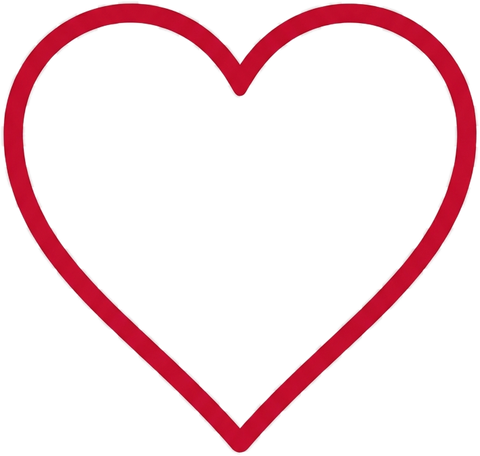
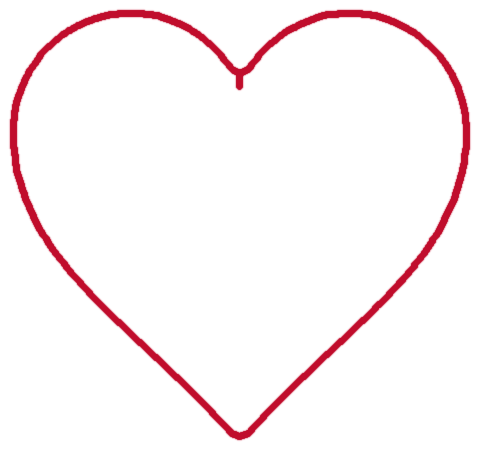
Add files via upload

Changed region(s): [[0.0, 0.0, 1.0, 1.0]]

diff --git a/index.html b/index.html
@@ -780,6 +780,16 @@ footer .brand{font-size:15px;letter-spacing:.42em}
 .hero-actives li.active-in{opacity:1;transform:none}
 @media(max-width:1000px){
   .hero-actives li{opacity:1;transform:none;transition:none}
+  /* (user request) centre the ingredient list on lite/mobile, bigger and
+     all-caps to match what desktop already gets (see the >=1001px
+     .keyact.flat.hero-actives rule above). The gold tick mark (::before)
+     switches from absolutely-positioned (which assumed left-aligned text)
+     to an inline mark ahead of the now-centred text, so it still reads as
+     "— INGREDIENT" rather than floating off to the left edge on its own. */
+  .keyact.flat.hero-actives{text-align:center}
+  .keyact.flat.hero-actives li{padding-left:0;font-size:clamp(14px,3.8vw,18px);text-transform:uppercase}
+  .keyact.flat.hero-actives li::before{content:"";position:static;display:inline-block;
+    width:9px;height:1px;margin:0 8px 2px 0;vertical-align:middle;background:var(--gold)}
 }
 /* gold keylines: thin animated connectors running from each active ingredient
    back to the tube's cap end, drawn in one by one as the visitor scrolls back UP
@@ -1135,6 +1145,36 @@ footer .brand{font-size:15px;letter-spacing:.42em}
 .mphoto::after{content:'';position:absolute;left:0;right:0;bottom:0;height:30%;background:linear-gradient(to top,rgba(0,0,0,.6),rgba(0,0,0,0));pointer-events:none}
 .mphoto .cap{position:absolute;left:clamp(14px,2vw,24px);bottom:clamp(12px,1.6vw,20px);color:#fff;font-size:12px;letter-spacing:.14em;text-transform:uppercase;font-weight:600;text-shadow:0 1px 4px rgba(0,0,0,.7);z-index:1}
 .mfacts{display:grid;grid-template-columns:repeat(4,1fr);gap:1px;background:rgba(196,153,48,.22);border:1px solid rgba(196,153,48,.22);margin-top:clamp(32px,4vw,50px)}
+
+/* (user request) Mānuka Honey section: the beehive photo runs full viewport
+   width (breaking out of .wrap the standard negative-margin way; body already
+   carries overflow-x:clip site-wide so this can't open a horizontal
+   scrollbar) and the 3 "pillar" copy cards float on top of it as a lightly
+   translucent, frosted row rather than sitting in normal flow underneath.
+   .honey-photo-wrap is a new, local positioning context (position:relative)
+   wrapping just this photo + its pillars -- NOT every .mphoto in #honey (the
+   East Cape coast photo further down keeps its original, unrelated layout
+   untouched, since it's outside this wrapper). The wrapper's own box stays at
+   the normal .wrap content width, so .pillars (left:0;right:0 within it)
+   reads at the same inset the rest of the page's copy does, while only the
+   photo itself bleeds edge to edge behind it. */
+.honey-photo-wrap{position:relative;margin-top:clamp(24px,3vw,36px)}
+.honey-photo-wrap .mphoto{margin-top:0;width:100vw;margin-left:calc(50% - 50vw);margin-right:calc(50% - 50vw);border-radius:0;height:clamp(560px,58vw,700px)}
+.honey-photo-wrap .mphoto img{height:100%;object-fit:cover}
+.honey-photo-wrap .mphoto::after{height:60%}
+/* (user request) lifted to mid-image (vertically centred rather than
+   bottom-anchored), spread into 3 separate floating cards (30px gap, so the
+   photo shows through between them, not just within them) rather than one
+   abutting hairline-divided row -- the divider background/border that made
+   sense for touching cells has no job once the cells are apart, so it's
+   dropped in favour of each card casting its own soft shadow. */
+/* #honey-prefixed (not just .honey-photo-wrap) so this beats .rv.in{transform:none}
+   (same 2-class specificity, but .rv.in sits later in the stylesheet and would
+   otherwise win on source order once the reveal animation finishes and adds
+   .in -- the ID bumps specificity instead of relying on being last). */
+#honey .honey-photo-wrap .pillars{position:absolute;left:0;right:0;top:50%;transform:translateY(-50%);z-index:2;gap:30px;background:transparent;border:none}
+.honey-photo-wrap .pillar{background:rgba(255,255,255,.42);backdrop-filter:blur(20px) saturate(180%);-webkit-backdrop-filter:blur(20px) saturate(180%);border-radius:3px;box-shadow:0 16px 40px rgba(0,0,0,.25)}
+.honey-photo-wrap .pillar:hover{background:rgba(255,255,255,.58)}
 .mfact{background:var(--ink);padding:clamp(28px,3.6vw,44px) clamp(16px,2.2vw,26px)}
 .mfact b{display:block;font-family:Arial,'Helvetica Neue',Helvetica,'Liberation Sans',sans-serif;font-size:clamp(24px,2.8vw,36px);color:#E8C468;line-height:1.1;letter-spacing:-.01em}
 .mfact h4{font-size:11px;letter-spacing:.14em;text-transform:uppercase;margin:14px 0 8px;font-weight:600;color:#fff}
@@ -1732,6 +1772,24 @@ footer{background:var(--paper);border-top:1px solid var(--line);padding:70px 0 4
   .hero-grid{order:2;transform:none;padding-top:0}
   .hero-lower .hero-grid{padding-left:var(--pad);padding-right:var(--pad)}
   .hero-pillars{order:3;flex:0 0 auto;max-width:none;grid-template-columns:1fr;gap:18px;margin:18px 0 0}
+  /* (user request) the 4 pillar icons (map/mitochondria/heart/water-drop) were
+     cropping off the screen edge on phones. Two things stack to cause it: the
+     icon's own scale(2) reveal transform (further up, shared with desktop)
+     doesn't grow its LAYOUT box, only what's painted -- fine on desktop where
+     the icon+text row sits well inside a wide column, but on a full-width
+     mobile row with the icon pinned to the card's outer edge (flex-start
+     default; icon is first in the markup for data-edge="l", and still
+     outermost after the data-edge="r" row-reverse), that doubled paint runs
+     straight off the viewport on its own. Narrowing the copy column and
+     centering the icon+text pair (instead of packing it to the card's edge)
+     claws back some of that margin, but not all of it -- closing the rest
+     without squeezing the text illegibly narrow means also dialing back how
+     far this one reveal scales on phones specifically: 1.5x instead of
+     desktop's 2x, still a clear "grows in" effect, just not one that needs
+     more room than a phone screen has. */
+  .hero-pillars .pillar{justify-content:center}
+  .hero-pillars .pillar-body{max-width:clamp(168px,54vw,205px)}
+  .hero-pillars .pillar-icon[data-edge].in{transform:scale(1.4)}
   .hero-grid,.prob-grid,.ritual-grid,.formgrid{grid-template-columns:1fr}
   .hero-grid{gap:24px}   /* single column: the wide desktop gap would waste height */
   .hmsg{font-size:clamp(14px,2.6vw,19px)}
@@ -1742,9 +1800,18 @@ footer{background:var(--paper);border-top:1px solid var(--line);padding:70px 0 4
   .hero-precede .precede-rest{font-size:clamp(16px,4vw,20px)}
   .hero-precede .precede-body{font-size:clamp(16px,4vw,20px)}
   .hero-precede .precede-solution{font-size:clamp(30px,9.8vw,42px)}
-  /* this one line has to fit without wrapping at every phone width down to 320px,
-     so it gets its own smaller, width-tied size instead of sharing .precede-body's */
-  .hero-precede .precede-fit{white-space:nowrap;font-size:clamp(11px,calc((100vw - 90px) / 20),20px)}
+  /* (user request) sized up. This line used to be forced onto one row
+     (white-space:nowrap) at a small width-tied size specifically so it would
+     never overflow its narrow mobile column; that same nowrap constraint is
+     exactly what capped how big it could ever get -- the matchLinesToTagWidth
+     safety net (hero-keylines script) measures the single-line rendered width
+     against the column and always shrinks a too-long nowrap line back down to
+     fit, which cancels out any bigger size set here. Switching to normal
+     wrapping lets it take two lines at a real, bigger size instead, still
+     centred (inherited from .precede-body/.precede-solution) and still
+     caught by that same safety net if a device is ever narrow enough that
+     even a single word would overflow. */
+  .hero-precede .precede-fit{white-space:normal;font-size:clamp(17px,5.2vw,23px);line-height:1.3}
   .hero-sub{white-space:normal;font-size:clamp(16px,2.4vw,20px);max-width:62ch}
   /* lite/mobile: centre the single remaining stat's text, instead of the desktop
      flex row's left alignment. align-items isn't set to center here (unlike the
@@ -1773,6 +1840,15 @@ footer{background:var(--paper);border-top:1px solid var(--line);padding:70px 0 4
   .footgrid{grid-template-columns:1fr 1fr}
   .lg summary{font-size:18px;padding:20px 0}
   .lgbody p{font-size:13.5px}
+}
+/* narrowest phones (iPhone SE/mini-class, <=380px) have too little width left
+   over at the hero-pillars fix above's own clamp() floor for the icon to fully
+   clear the edge -- a few px of the "l" variant still crept past it. Scoped
+   tighter still, just for this width band, rather than squeezing the copy
+   column (and the icon scale) further for every phone down to 1000px. */
+@media(max-width:380px){
+  .hero-pillars .pillar-body{max-width:150px}
+  .hero-pillars .pillar-icon[data-edge].in{transform:scale(1.25)}
 }
 /* 1001-1400px: the hero still uses the desktop side-by-side layout here (that only
    stacks at 1000px and below), but the nav already treats this whole range as lite
@@ -2082,10 +2158,30 @@ footer{background:var(--paper);border-top:1px solid var(--line);padding:70px 0 4
 
   /* ritual, pack, form */
   .timer{max-width:74vw}
+  /* (user request) the countdown circle is relocated here, between the eyebrow
+     and the heading, by the JS right above the #cd countdown logic -- give it
+     its own vertical breathing room now that it sits in the section head
+     rather than stacked below the three ritual steps. */
+  #ritual .sec-head .timer{margin:20px auto 28px}
   .packcard{padding:26px 20px}
   .icap b{font-size:15px}
   .closing h2{font-size:clamp(34px,10vw,52px)}
   .legal{font-size:10.5px}
+
+  /* (user request) Mānuka Honey beehive photo: on lite/mobile the stacked
+     3-card translucent overlay (desktop/tablet rule above, outside this
+     breakpoint) would run far taller than a full-bleed photo at this width
+     ever can, and the cards would spill out past the bottom of the image.
+     Keep the photo a shorter full-bleed strip here, and drop the cards back
+     into normal flow underneath it, solid (not translucent, since they're no
+     longer sitting over the image) -- same stacked layout this section
+     already used before the overlay request, just under a wider photo. */
+  .honey-photo-wrap .mphoto{height:56vw;min-height:230px}
+  /* #honey-prefixed to outrank the unconditional #honey .honey-photo-wrap
+     .pillars{position:absolute...} rule above (same ID-bearing specificity,
+     but this one is later in source, so it wins at this breakpoint). */
+  #honey .honey-photo-wrap .pillars{position:static;transform:none;margin-top:1px;gap:14px}
+  .honey-photo-wrap .pillar{background:var(--paper);backdrop-filter:none;-webkit-backdrop-filter:none;box-shadow:none;border:1px solid var(--line)}
 }
 /* wider portrait phones (391-560px) have real slack next to the burger that the narrowest
    phones don't -- grow the hexes further in two steps rather than one straight vw curve,
@@ -2638,24 +2734,26 @@ footer{background:var(--paper);border-top:1px solid var(--line);padding:70px 0 4
       <p class="lede">HONI<i>ORA</i> delivers 1,000&nbsp;mg of MGO 850+/UMF 20+ MONOFLORAL NZ M&#257;nuka Honey crystals built on a Fiberest<sup class="rn">&reg;</sup> HF matrix: A high fibre gluten free biobase with efficient bioactives and significantly reduced honey sugars. The crystallisation process removes 95% of the water naturally found in honey, concentrating the honey's high MGO content and complex polyphenols into a stable, dry crystalline format with a reduced glycemic burden.</p>
       <p class="lede">Fiberest<sup class="rn">&reg;</sup> HF does more than build the crystal matrix. It's obtained by fractionating the indigestible components left after an enzymatic reaction with roasted corn starch, and it helps suppress the post-meal rise in blood sugar, improving blood triglycerides, and supporting regular bowel movements. This resistant dextrin also ferments in the gut, releasing short-chain fatty acids that trigger the same GLP-1 pathway behind the formula's satiety support, and it feeds Bifidobacterium adolescentis alongside Livaux<sup class="rn">&reg;</sup> and Feiolix<sup class="rn">&reg;</sup> to back the gut lining benefits already built into HONI<i>ORA</i>.<br><a class="cite" href="https://pubmed.ncbi.nlm.nih.gov/27028002/" target="_blank" rel="noopener noreferrer">Supporting research <span>PMID 27028002 &nearr;</span></a><a class="cite" href="https://doi.org/10.1093/femsec/fiad002" target="_blank" rel="noopener noreferrer">Gut ecology <span>Cheon et al. 2023 &nearr;</span></a></p>
     </div>
-    <div class="mphoto rv">
-      <img width="2400" height="1160" src="manuka-bees.jpg" alt="Bees on honeycomb" loading="lazy">
-    </div>
-    <div class="pillars rv">
-      <div class="pillar">
-        <span class="n">i</span>
-        <h3>The compound behind the grade<span class="ing">Methylglyoxal (MGO)</span></h3>
-        <p>Methylglyoxal (MGO) is the compound MGO gradings actually measure. At MGO 850+, HONI<i>ORA</i> carries a therapeutic grade concentration (of MGO per Kg) in our ultra premium NZ M&#257;nuka honey crystal matrix.<br><a class="cite" href="https://pubmed.ncbi.nlm.nih.gov/18210383/" target="_blank" rel="noopener noreferrer">Supporting research <span>PMID 18210383 &nearr;</span></a></p>
+    <div class="honey-photo-wrap">
+      <div class="mphoto rv">
+        <img width="2400" height="1160" src="manuka-bees.jpg" alt="Bees on honeycomb" loading="lazy">
       </div>
-      <div class="pillar">
-        <span class="n">ii</span>
-        <h3>A powerful and unique antioxidant <span class="ing">Leptosperin</span></h3>
-        <p>Most of M&#257;nuka honey's antioxidant power comes from Leptosperin, a compound unique to M&#257;nuka nectar. It works alongside the complete HoniOra stack of antioxidant actives to help your body manage everyday oxidative stress.<br><a class="cite" href="https://pubmed.ncbi.nlm.nih.gov/31496237/" target="_blank" rel="noopener noreferrer">Supporting research <span>PMID 31496237 &nearr;</span></a></p>
-      </div>
-      <div class="pillar">
-        <span class="n">iii</span>
-        <h3>Feeds your gut biome, without adding extra calories.<span class="ing">Prebiotic oligosaccharides</span></h3>
-        <p>M&#257;nuka honey carries prebiotic oligosaccharides, including panose, which feed beneficial gut bacteria rather than passing through as plain sugar. Most of the body's immune tissue sits in the gut lining, the Fiberest<sup class="rn">&reg;</sup> HF in our Honey crystals matrix and Livaux<sup class="rn">&reg;</sup> support them.<br><a class="cite" href="https://pubmed.ncbi.nlm.nih.gov/35967810/" target="_blank" rel="noopener noreferrer">Supporting research <span>PMID 35967810 &nearr;</span></a><a class="cite" href="https://pubmed.ncbi.nlm.nih.gov/33753873/" target="_blank" rel="noopener noreferrer">Gut &amp; immune link <span>PMID 33753873 &nearr;</span></a></p>
+      <div class="pillars rv">
+        <div class="pillar">
+          <span class="n">i</span>
+          <h3>The compound behind the grade<span class="ing">Methylglyoxal (MGO)</span></h3>
+          <p>Methylglyoxal (MGO) is the compound MGO gradings actually measure. At MGO 850+, HONI<i>ORA</i> carries a therapeutic grade concentration (of MGO per Kg) in our ultra premium NZ M&#257;nuka honey crystal matrix.<br><a class="cite" href="https://pubmed.ncbi.nlm.nih.gov/18210383/" target="_blank" rel="noopener noreferrer">Supporting research <span>PMID 18210383 &nearr;</span></a></p>
+        </div>
+        <div class="pillar">
+          <span class="n">ii</span>
+          <h3>A powerful and unique antioxidant <span class="ing">Leptosperin</span></h3>
+          <p>Most of M&#257;nuka honey's antioxidant power comes from Leptosperin, a compound unique to M&#257;nuka nectar. It works alongside the complete HoniOra stack of antioxidant actives to help your body manage everyday oxidative stress.<br><a class="cite" href="https://pubmed.ncbi.nlm.nih.gov/31496237/" target="_blank" rel="noopener noreferrer">Supporting research <span>PMID 31496237 &nearr;</span></a></p>
+        </div>
+        <div class="pillar">
+          <span class="n">iii</span>
+          <h3>Feeds your gut biome, without adding extra calories.<span class="ing">Prebiotic oligosaccharides</span></h3>
+          <p>M&#257;nuka honey carries prebiotic oligosaccharides, including panose, which feed beneficial gut bacteria rather than passing through as plain sugar. Most of the body's immune tissue sits in the gut lining, the Fiberest<sup class="rn">&reg;</sup> HF in our Honey crystals matrix and Livaux<sup class="rn">&reg;</sup> support them.<br><a class="cite" href="https://pubmed.ncbi.nlm.nih.gov/35967810/" target="_blank" rel="noopener noreferrer">Supporting research <span>PMID 35967810 &nearr;</span></a><a class="cite" href="https://pubmed.ncbi.nlm.nih.gov/33753873/" target="_blank" rel="noopener noreferrer">Gut &amp; immune link <span>PMID 33753873 &nearr;</span></a></p>
+        </div>
       </div>
     </div>
     <p class="lede" style="margin:clamp(28px,3.4vw,40px) auto 0;max-width:74ch;text-align:center">The crystals dissolve into your morning glass alongside the balance of the HONI<i>ORA</i> active matrix, at the same MGO 850+ dose, every single day.</p>
@@ -4952,6 +5050,26 @@ footer{background:var(--paper);border-top:1px solid var(--line);padding:70px 0 4
     }, {threshold:.35});
     io2.observe(band);
   }
+
+  /* (user request) lite/mobile only: move the ritual countdown circle up into
+     the section head, between the "01 / The Ritual" eyebrow and the "Sixty
+     seconds..." heading, instead of its default spot stacked below the three
+     numbered steps. Relocating the SAME #cd node (never cloning it) keeps the
+     IntersectionObserver countdown logic right below working unchanged -- it
+     watches whichever element #cd actually is, wherever it sits in the DOM.
+     One-time check at load, matching this file's other lite-only layout
+     branches (e.g. the hero-keylines mqLite check above), which also don't
+     re-run on a later resize across the breakpoint. */
+  (function(){
+    if (!(window.matchMedia && window.matchMedia('(max-width:1000px)').matches)) return;
+    var head = document.querySelector('#ritual .sec-head');
+    var heading = head && head.querySelector('h2.oneline');
+    var timer = document.querySelector('#ritual .timer');
+    if (!head || !heading || !timer) return;
+    var oldWrap = timer.parentNode;
+    head.insertBefore(timer, heading);
+    if (oldWrap) oldWrap.style.display = 'none';
+  })();
 
   var cd = document.getElementById('cd');
   if (cd && 'IntersectionObserver' in window){
